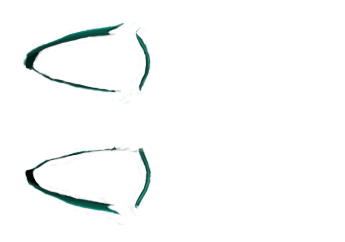
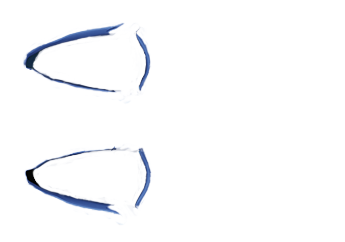
adding leather to lining

diff --git a/src/components/Constructor/shoesData.ts b/src/components/Constructor/shoesData.ts
@@ -1387,11 +1387,16 @@ export const shoes = [
               },
               {
                 img: 'part09_leather_17.png',
+                name: 'Cornflower blue',
+                hex: '#6495ED',
+              },
+              {
+                img: 'part09_leather_18.png',
                 name: 'Spring Green',
                 hex: '#0CB35D',
               },
               {
-                img: 'part09_leather_18.png',
+                img: 'part09_leather_19.png',
                 name: 'Real Red',
                 hex: '#D81525',
               },
